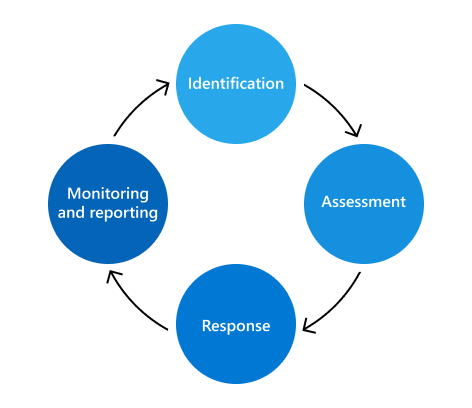
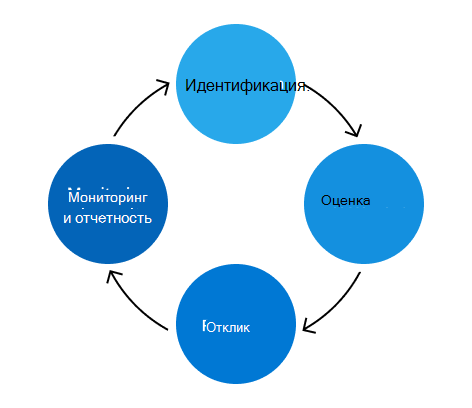
commit translated contents

diff --git a/compliance/regulatory/NIST-action-plan.md b/compliance/regulatory/NIST-action-plan.md
@@ -16,18 +16,18 @@ ms.collection:
 - MS-Compliance
 ms.custom: seo-marvel-apr2020
 hideEdit: true
-ms.openlocfilehash: da429e78cf0acec906a6067ff3df89d85ae2262a
-ms.sourcegitcommit: 024137a15ab23d26cac5ec14c36f3577fd8a0cc4
+ms.openlocfilehash: b0840cf87ede602c1bcc324de9a036126e4e1b2b
+ms.sourcegitcommit: fb379d1110a9a86c7f9bab8c484dc3f4b3dfd6f0
 ms.translationtype: HT
 ms.contentlocale: ru-RU
-ms.lasthandoff: 04/01/2021
-ms.locfileid: "51497279"
+ms.lasthandoff: 06/23/2021
+ms.locfileid: "53087568"
 ---
 # <a name="microsoft-365-nist-800-53-action-plan--top-priorities-for-your-first-30-days-90-days-and-beyond"></a>План обеспечения соответствия NIST 800-53 для Microsoft 365: основные приоритеты на первые 30, 90 и больше дней
 
-Microsoft 365 позволяет управлять предприятием с помощью облачной платформы управления, сопоставляющей средства контроля с рядом нормативных стандартов. Microsoft 365 включает Office 365, Windows 10 и Enterprise Mobility + Security. Внутренняя система управления от Майкрософт основана на специальной публикации 800-53 Национального института стандартов и технологий (NIST), а среда Office 365 аккредитована в соответствии со стандартом NIST 800-53 или более поздней его редакцией.
+Microsoft 365 позволяет управлять предприятием с помощью облачной платформы управления, сопоставляющей средства контроля с рядом нормативных стандартов. Microsoft 365 включает Office 365, Windows 10 и Enterprise Mobility + Security. Внутренняя система управления от Майкрософт основана на специальной публикации 800-53 Национального института стандартов и технологий (NIST), а среда Office 365 аккредитована в соответствии со стандартом NIST 800-53 или более поздней его редакцией.
 
-Корпорация Майкрософт — признанный лидер в области облачной безопасности. Используя многолетний опыт разработки корпоративного программного обеспечения и предоставления веб-служб, наша команда непрерывно совершенствуется и постоянно обновляет службы и приложения, обеспечивая безопасную и продуктивную работу в облачной службе, которая соответствует строгим отраслевым стандартам. Облачные службы Майкрософт для государственных организаций, включая Office 365 для государственных организаций США, соответствуют высоким требованиям Федеральной программы аккредитации облачных служб (FedRAMP) США и позволяют федеральным органам США сэкономить средства и использовать преимущества безопасности Microsoft Cloud.
+Корпорация Майкрософт — признанный лидер в области облачной безопасности. Используя многолетний опыт разработки корпоративного программного обеспечения и предоставления веб-служб, наша команда непрерывно совершенствуется и постоянно обновляет службы и приложения, обеспечивая безопасную и продуктивную работу в облачной службе, которая соответствует строгим отраслевым стандартам. Облачные службы Майкрософт для государственных организаций, включая Office 365 для государственных организаций США, соответствуют высоким требованиям Федеральной программы аккредитации облачных служб (FedRAMP) США и позволяют федеральным органам США сэкономить средства и использовать преимущества безопасности Microsoft Cloud.
 
 В этой статье приводится план действий в порядке приоритета, который поможет вам обеспечить соответствие требованиям NIST 800-53. Этот план действий был разработан совместно с Protiviti, партнером Майкрософт, специализирующимся на обеспечении соответствия требованиям нормативных документов. 
 
@@ -37,8 +37,8 @@ Microsoft 365 позволяет управлять предприятием с
 
 |**Этап**|**Результаты**|
 |:-----|:-----|
-|30 дней|*   Ознакомьтесь с требованиями NIST 800-53 и рассмотрите возможность обращения к партнеру Майкрософт по консультациям.<br>*   Изучите стратегию углубленной защиты, встроенную в Microsoft 365.  <br>*   Защитите доступ пользователей и администраторов к Office 365. <br>*   Обеспечьте возможность аудита всего доступа к системе согласно политикам аудита и учета в вашей организации.|
-|90 дней|*   Улучшите программу управления конфигурациями, защиту от вредоносных программ, внесение исправлений.<br>*   Используйте возможности обеспечения безопасности Microsoft 365 для управления доступом к среде, защиты информации и ресурсов организации.<br>*   Используйте встроенные возможности аудита для отслеживания рискованных или требующих особого внимания действий в Office 365.<br>*   Выполните развертывание Advanced Threat Protection для обработки ссылок и вложений в электронной почте и документах Office.|
+|30 дней|*   Ознакомьтесь с требованиями NIST 800-53 и рассмотрите возможность обращения к партнеру Майкрософт по консультациям.<br>*   Изучите стратегию углубленной защиты, встроенную в Microsoft 365.  <br>*   Защитите доступ пользователей и администраторов к Office 365. <br>*   Обеспечьте возможность аудита всего доступа к системе согласно политикам аудита и учета в вашей организации.|
+|90 дней|*   Улучшите программу управления конфигурациями, защиту от вредоносных программ, внесение исправлений.<br>*   Используйте возможности обеспечения безопасности Microsoft 365 для управления доступом к среде, защиты информации и ресурсов организации.<br>*   Используйте встроенные возможности аудита для отслеживания рискованных или требующих особого внимания действий в Office 365.<br>*   Выполните развертывание Microsoft Defender для Office 365 для обработки ссылок и вложений в электронной почте и документах Office.|
 |Более 90 дней|*   Используйте передовые инструменты Microsoft 365 и защиты информации для реализации средств непрерывного контроля для устройств и защиты корпоративных данных.<br>*   Постоянно контролируйте соответствие требованиям в Microsoft 365 и других облачных приложениях.  <br>*   Используйте возможности защиты и улучшенного выявления угроз в Advanced Threat Analytics для обеспечения надежной и многоуровневой стратегии безопасности в организации. Разработайте план реагирования на инциденты для смягчения последствий компрометации систем в организации.|
 
 ## <a name="30-days--powerful-quick-wins"></a>30 дней: быстрые и эффективные решения
@@ -48,9 +48,9 @@ Microsoft 365 позволяет управлять предприятием с
 |**Область**|**Задачи**|
 |:-----|:-----|
 |Ознакомьтесь с требованиями NIST 800-53 и рассмотрите возможность обращения к партнеру Майкрософт по консультациям.|•    В сотрудничестве с партнером корпорации Майкрософт выполните анализ несоответствий требованиям NIST 800-53 в вашей организации и составьте план исправления недочетов. <br>•   С помощью инструкций в статье [Диспетчер соответствия требованиям (Майкрософт)](/microsoft-365/compliance/compliance-manager) определите и задокументируйте политики и процедуры для контроля доступа и предоставления информации, в которых будут рассмотрены цели, область применения, роли, обязанности, координирование работы организационных подразделений и соответствие требованиям.|
-|Изучите стратегию эшелонной обороны, встроенную в Microsoft 365.|•   Оценивайте и контролируйте риски, связанные с соответствием требованиям, при помощи [диспетчера соответствия требованиям](/microsoft-365/compliance/compliance-manager) для оценки соблюдения NIST 800-53 в организации. Используйте средства контроля Центра безопасности Microsoft 365 для снижения рисков и управления ими, учитывая результаты оценки. <br>• Используйте службу [Оценка безопасности (Майкрософт)](/microsoft-365/security/mtp/microsoft-secure-score) для отслеживания использования в организации возможностей обеспечения безопасности Microsoft 365 с течением времени как в Office 365, так и на компьютерах с Windows 10. <br>•   Узнайте о технологиях и стратегиях Майкрософт, используемых для [шифрования данных Office 365](/microsoft-365/compliance/encryption), а также о стратегиях [защиты от атак типа "отказ в обслуживании"](/office365/enterprise/office-365-defending-against-denial-of-service-attacks-overview) в Microsoft Cloud.|
-|Защитите доступ пользователей и администраторов к Office 365.|• Внедрите [надежное управление учетными данными](/azure/security/azure-ad-secure-steps#step-1---strengthen-your-credentials) для защиты учетных записей пользователей. <br> •    Ознакомьтесь с [рекомендуемыми политиками доступа в отношении устройств и удостоверений](/microsoft-365/security/office-365-security/microsoft-365-policies-configurations) для служб Office 365.<br> • Используйте [административные роли Office 365](https://support.office.com/article/understanding-administrative-roles-52f29955-6a60-435f-aba9-eb69c898606a) для внедрения доступа к средствам администрирования на основе ролей и для разделения административных обязанностей. Примечание: многим административным ролям в Office 365 соответствуют определенные роли в Exchange Online, SharePoint Online и Skype для бизнеса Online. Разделяйте разрешения, чтобы у отдельно взятого администратора не было большего доступа, чем необходимо.|
-|Обеспечьте возможность аудита всего доступа к системе согласно политикам аудита и учета в вашей организации.|• Включите [ведение журнала аудита](/microsoft-365/compliance/search-the-audit-log-in-security-and-compliance) и [аудит почтовых ящиков](/microsoft-365/compliance/enable-mailbox-auditing) для всех почтовых ящиков Exchange, чтобы выявлять в Office 365 потенциально опасные действия и обеспечить возможность криминалистического анализа в случае нарушения безопасности данных.|
+|Изучите стратегию эшелонной обороны, встроенную в Microsoft 365.|•   Оценивайте и контролируйте риски нарушения нормативных требований, используя [диспетчер соответствия требованиям](/microsoft-365/compliance/compliance-manager) для проведения оценки соответствия организации NIST 800-53. Согласуйте средства контроля Центра безопасности Microsoft 365 для управления рисками и их устранения с результатами оценки. <br>• Используйте [Оценку безопасности (Майкрософт)](/microsoft-365/security/mtp/microsoft-secure-score) для отслеживания использования возможностей Центра безопасности Microsoft 365 в организации с течением времени, как в Office 365, так и на компьютерах с Windows 10. <br>•   Узнайте о технологиях и стратегиях Майкрософт, используемых для [шифрования данных Office 365](/microsoft-365/compliance/encryption), а также о стратегиях [защиты от атак типа "отказ в обслуживании"](/compliance/assurance/assurance-microsoft-dos-defense-strategy) в Microsoft Cloud.|
+|Защитите доступ пользователей и администраторов к Office 365.|• Внедрите [надежное управление учетными данными](/azure/security/azure-ad-secure-steps#step-1---strengthen-your-credentials) для защиты учетных записей пользователей. <br> •    Ознакомьтесь с [рекомендуемыми политиками доступа в отношении устройств и удостоверений](/microsoft-365/security/office-365-security/microsoft-365-policies-configurations) для служб Office 365.<br> • Используйте [административные роли Microsoft 365](/microsoft-365/admin/add-users/about-admin-roles), чтобы реализовать доступ к возможностям администрирования на основе ролей и разделить административные обязанности. Примечание. Многим административным ролям в Microsoft 365 соответствует роль в Exchange Online, SharePoint Online и Skype для бизнеса Online. Разделяйте разрешения, чтобы каждый администратор имел только необходимый доступ.|
+|Обеспечьте возможность аудита всего доступа к системе в соответствии с политиками аудита и учета в вашей организации.|• Включите [ведение журнала аудита](/microsoft-365/compliance/search-the-audit-log-in-security-and-compliance) и [аудит почтовых ящиков](/microsoft-365/compliance/enable-mailbox-auditing) для всех почтовых ящиков Exchange, чтобы выявлять в Office 365 потенциально опасные действия и обеспечить возможность криминалистического анализа в случае нарушения безопасности данных.|
 |||
 
 ## <a name="90-days--enhanced-protections"></a>90 дней: расширенные средства защиты
@@ -60,9 +60,9 @@ Microsoft 365 позволяет управлять предприятием с
 |**Область**|**Задачи**|
 |:-----|:-----|
 |Улучшите программу управления конфигурациями, защиту от вредоносных программ, внесение исправлений.|•   Защитите корпоративные ресурсы и компьютеры, развернув и включив [антивирусную программу "Защитник Windows"](/windows/security/threat-protection/windows-defender-antivirus/deploy-windows-defender-antivirus) в организации и используя ее тесную интеграцию с Windows 10.<br>• Следите за зараженными системами, помещенными на карантин, чтобы до применения исправлений не был нанесен дополнительный ущерб.<br>•   Смело положитесь на процесс Microsoft 365 для управления изменениями в отношении надежных обновлений и исправлений, который соответствует строгому стандарту.|
-|Используйте возможности обеспечения безопасности Microsoft 365 для управления доступом к среде, защиты информации и ресурсов организации.|•   Внедрите [рекомендуемые политики доступа в отношении удостоверений и устройств](/microsoft-365/security/office-365-security/microsoft-365-policies-configurations) для защиты учетных записей пользователей и администраторов. <br>•   Внедрите [шифрование сообщений Office 365 (OME)](/microsoft-365/compliance/ome), чтобы помочь пользователям соблюдать политики организации при отправке конфиденциальных данных по электронной почте.<br>•  Разверните [Microsoft Defender для конечной точки](/windows/security/threat-protection/windows-defender-atp/windows-defender-advanced-threat-protection) на всех настольных компьютерах для защиты от вредоносного кода, для предотвращения нарушений безопасности данных и для реагирования на такие нарушения.<br>•  Настраивайте, тестируйте и развертывайте политики, чтобы выявлять, отслеживать и [автоматически защищать](/microsoft-365/compliance/apply-protection-to-personal-data-in-office-365) конфиденциальные данные более чем 80 распространенных типов в документах и электронных письмах, в том числе финансовые, медицинские и личные сведения.<br>•    Автоматически информируйте отправителей сообщений о том, что они могут нарушить одну из ваших политик. Это возможно до того, как они отправят сообщение с нарушениями, если настроена функция [Подсказки политики](/exchange/security-and-compliance/data-loss-prevention/policy-tips). Ее можно настроить так, чтобы отображалось краткое уведомление в Outlook, Outlook в Интернете и OWA для устройств о возможных нарушениях политики во время создания сообщения.<br>•   Защитите конфиденциальные корпоративные данные и соблюдайте политики предоставления информации в вашей организации, внедрив средства контроля для [внешнего общего доступа в SharePoint Online и OneDrive для бизнеса](/onedrive/manage-sharing). Убедитесь, что доступ к корпоративным данным предоставляется только внешним пользователям, прошедшим проверку подлинности.|
-|Используйте встроенные возможности аудита для отслеживания рискованных или требующих особого внимания действий в Office 365.|•   Включите [политики оповещения](/microsoft-365/compliance/alert-policies) в Центре безопасности и соответствия требованиям Microsoft 365 для автоматической отправки уведомлений при выполнении действий, требующих особого внимания (например, при повышении привилегий учетной записи пользователя или попытке доступа к конфиденциальным данным). Необходимо выполнять аудит и мониторинг всех функций, для которых требуются определенные привилегии.<br>• Регулярно [просматривайте журналы аудита](/microsoft-365/compliance/search-the-audit-log-in-security-and-compliance) в Центре безопасности или соответствия требованиям для обнаружения изменений, внесенных в параметры конфигурации клиента.<br>•   Для долгосрочного хранения данных журналов аудита используйте справочник по API действий управления Office 365, чтобы обеспечить интеграцию со средством управления информационной безопасностью и событиями безопасности (SIEM).|
-|Выполните развертывание Advanced Threat Protection для обработки ссылок и вложений в электронной почте и документах Office.|• Реализуйте службу [Office 365 Advanced Threat Protection](/security/office-365-security/office-365-atp), чтобы защититься от наиболее распространенных векторов атаки, в том числе фишинговых писем и документов Office, содержащих вредоносные ссылки и вложения.|
+|Используйте возможности обеспечения безопасности Microsoft 365 для управления доступом к среде, защиты информации и ресурсов организации.|•   Внедрите [рекомендуемые политики доступа в отношении удостоверений и устройств](/microsoft-365/security/office-365-security/microsoft-365-policies-configurations) для защиты учетных записей пользователей и администраторов. <br>•   Внедрите [шифрование сообщений Office 365 (OME)](/microsoft-365/compliance/ome), чтобы помочь пользователям соблюдать политики организации при отправке конфиденциальных данных по электронной почте.<br>•  Разверните [Microsoft Defender для конечной точки](/microsoft-365/security/defender-endpoint/microsoft-defender-endpoint) на всех настольных компьютерах для защиты от вредоносного кода, предотвращения нарушений безопасности данных и реагирования на такие нарушения.<br>• Настраивайте, тестируйте и развертывайте политики, чтобы выявлять, отслеживать и [автоматически защищать](/microsoft-365/compliance/apply-protection-to-personal-data-in-office-365) конфиденциальные данные более чем 80 распространенных типов в документах и электронных письмах, в том числе финансовые, медицинские и личные сведения.<br>•    Автоматически информируйте отправителей сообщений о том, что они могут нарушить одну из ваших политик. Это возможно до того, как они отправят сообщение с нарушениями, если настроена функция [Подсказки политики](/exchange/security-and-compliance/data-loss-prevention/policy-tips). Ее можно настроить так, чтобы отображалось краткое уведомление в Outlook, Outlook в Интернете и OWA для устройств о возможных нарушениях политики во время создания сообщения.<br>•   Защитите конфиденциальные корпоративные данные и соблюдайте политики общего доступа к информации в вашей организации, внедрив средства контроля для [внешнего общего доступа в SharePoint Online и OneDrive для бизнеса](/onedrive/manage-sharing). Убедитесь, что доступ к корпоративным данным предоставляется только внешним пользователям, прошедшим проверку подлинности.|
+|Используйте встроенные возможности аудита для отслеживания рискованных или требующих особого внимания действий в Office 365.|•   Включите [политики оповещения](/microsoft-365/compliance/alert-policies) в Центре безопасности и соответствия требованиям Microsoft 365 для автоматической отправки уведомлений при выполнении действий, требующих особого внимания (например, при повышении привилегий учетной записи пользователя или попытке доступа к конфиденциальным данным). Необходимо выполнять аудит и мониторинг всех функций, для которых требуются определенные привилегии.<br>• Регулярно [просматривайте журналы аудита](/microsoft-365/compliance/search-the-audit-log-in-security-and-compliance) в Центре безопасности или соответствия требованиям для обнаружения изменений, внесенных в параметры конфигурации клиента.<br>•   Для долгосрочного хранения данных журналов аудита используйте справочник по API действий управления Office 365, чтобы обеспечить интеграцию со средством управления информационной безопасностью и событиями безопасности (SIEM).|
+|Выполните развертывание Microsoft Defender для Office 365 для обработки ссылок и вложений в электронной почте и документах Office.|Внедрите службу [Microsoft Defender для Office 365](/microsoft-365/security/office-365-security/defender-for-office-365) для защиты от наиболее распространенных векторов атаки, в том числе фишинговых писем и документов Office, содержащих вредоносные ссылки и вложения.|
 |||
 
 ## <a name="beyond-90-days-ongoing-security-data-governance-and-reporting"></a>Более 90 дней: непрерывная защита, управление данными и создание отчетов
@@ -72,8 +72,8 @@ Microsoft 365 позволяет управлять предприятием с
 |**Область**|**Задачи**|
 |:-----|:-----|
 |Используйте передовые инструменты Microsoft 365 и защиты информации для реализации средств непрерывного контроля для устройств и защиты корпоративных данных.|*    С помощью [Microsoft Intune](/intune/) защитите конфиденциальные данные, которые хранятся и доступны на мобильных устройствах, и разрешайте доступ к облачным службам только корпоративным устройствам, соответствующим требованиям.|
-|Постоянно контролируйте соответствие требованиям в Microsoft 365 и других облачных приложениях.|*    Чтобы оценивать эффективность заданных политик и процедур организации, используйте [диспетчера соответствия требованиям](/microsoft-365/compliance/compliance-manager) для регулярных оценок принудительного применения политик информационной безопасности в организации.<br>*    Используйте [Azure AD Privileged Identity Management](/azure/active-directory/privileged-identity-management/pim-configure) для контроля и выполнения регулярных проверок всех пользователей и групп с высокими уровнями разрешений (т. е. привилегированных или административных пользователей).<br>*    Разверните и настройте [Privileged Access Management](/microsoft-365/compliance/privileged-access-management-overview), чтобы обеспечить детализированное управление доступом для привилегированных задач администратора в Office 365.  После включения пользователям нужно будет запрашивать JIT-доступ, чтобы выполнять привилегированные задачи и задачи, требующие высокого уровня доступа, через рабочий процесс утверждения, который имеет жесткие ограничения и временные рамки.<br>*    Проводите аудит попыток [доступа к почтовым ящикам со стороны пользователей, которые не являются их владельцами](/Exchange/policy-and-compliance/non-owner-mailbox-access-reports), чтобы выявить потенциальные утечки информации и заблаговременно проверять случаи такого доступа для всех почтовых ящиков Exchange Online.<br>*    Используйте [политики оповещения Office 365, отчеты для защиты от потери данных и Microsoft Cloud App Security](/Office365/SecurityCompliance/monitor-for-leaks-of-personal-data), чтобы отслеживать использование облачных приложений в организации и реализовать расширенные политики оповещения, основанные на эвристическом анализе и действиях пользователей.<br>*    Используйте [Microsoft Cloud App Security](/cloud-app-security/what-is-cloud-app-security), чтобы автоматически отслеживать рискованные действия, выявлять возможных злоумышленников среди администраторов, расследовать случаи нарушения безопасности данных или проверять соответствие требованиям.|
-|Используйте возможности защиты и улучшенного выявления угроз в Advanced Threat Analytics для обеспечения надежной и многоуровневой стратегии безопасности в организации. Разработайте план реагирования на инциденты для смягчения последствий компрометации систем в организации.|*    Разверните и настройте [Windows Advanced Threat Analytics](/advanced-threat-analytics/), чтобы использовать богатые возможности аналитики и создания отчетов. Они позволят получать важные сведения о том, на каких пользователей нацелены атаки в вашей организации и какие методики кибератак при этом используются.<br>*    Используйте [отчеты и аналитику Office 365 Advanced Threat Protection](/security/office-365-security/view-reports-for-atp.md) для анализа угроз, получая аналитические сведения об автоматически обнаруженных вредоносных письмах и вредоносном содержимом в организации. Используйте встроенные возможности отчетности и трассировки сообщений для исследования писем, заблокированных из-за неизвестного вируса или вредоносной программы.<br>*    Используйте [Office 365 Threat Intelligence](/security/office-365-security/office-365-ti.md) для объединения аналитических сведений и информации из разных источников и получения цельного представления об общей безопасности облака.<br>*    [Интегрируйте Office 365 Threat Intelligence и Microsoft Defender для конечной точки](/security/office-365-security/integrate-office-365-ti-with-wdatp.md), чтобы быстро увидеть риск для устройств пользователей при изучении угроз в Office 365.<br>*    Имитируйте распространенные методы атак в среде Office 365 с помощью [эмулятора атак Office 365](/security/office-365-security/attack-simulator.md).  Изучайте результаты имитации, чтобы определить возможности для обучения пользователей и проверить предусмотренные в организации процедуры реагирования на инциденты.<br>*    Настройте [разрешения в Центре безопасности и соответствия требованиям](/security/office-365-security/permissions-in-the-security-and-compliance-center.md), чтобы только утвержденные пользователи могли получать доступ к данным мониторинга и аудита, а также чтобы соотнести такой доступ с мерами по реагированию на инциденты в организации.|
+|Постоянно контролируйте соответствие требованиям в Microsoft 365 и других облачных приложениях.|*    Чтобы оценивать эффективность заданных политик и процедур организации, используйте [диспетчера соответствия требованиям](/microsoft-365/compliance/compliance-manager) для регулярных оценок принудительного применения политик информационной безопасности в организации.<br>*    Используйте [Azure AD Privileged Identity Management](/azure/active-directory/privileged-identity-management/pim-configure) для контроля и выполнения регулярных проверок всех пользователей и групп с высокими уровнями разрешений (т. е. привилегированных или административных пользователей).<br>*    Разверните и настройте [Privileged Access Management](/microsoft-365/compliance/privileged-access-management-overview), чтобы обеспечить детализированное управление доступом для привилегированных задач администратора в Office 365.  После включения пользователям нужно будет запрашивать JIT-доступ, чтобы выполнять привилегированные задачи и задачи, требующие высокого уровня доступа, через рабочий процесс утверждения, который имеет жесткие ограничения и временные рамки.<br>*    Проводите аудит попыток [доступа к почтовым ящикам со стороны пользователей, которые не являются их владельцами](/Exchange/policy-and-compliance/non-owner-mailbox-access-reports), чтобы выявить потенциальные утечки информации и заблаговременно проверять случаи такого доступа для всех почтовых ящиков Exchange Online.<br>*    Используйте [политики оповещения Office 365, отчеты для защиты от потери данных и Microsoft Cloud App Security](/Office365/SecurityCompliance/monitor-for-leaks-of-personal-data), чтобы отслеживать использование облачных приложений в организации и реализовать расширенные политики оповещения, основанные на эвристическом анализе и действиях пользователей.<br>*    Используйте [Microsoft Cloud App Security](/cloud-app-security/what-is-cloud-app-security), чтобы автоматически отслеживать рискованные действия, выявлять возможных злоумышленников среди администраторов, расследовать случаи нарушения безопасности данных или проверять соответствие требованиям.|
+|Используйте возможности защиты и улучшенного выявления угроз в Advanced Threat Analytics для обеспечения надежной и многоуровневой стратегии безопасности в организации. Разработайте план реагирования на инциденты для смягчения последствий компрометации систем в организации.|*    Разверните и настройте [Windows Advanced Threat Analytics](/advanced-threat-analytics/), чтобы использовать богатые возможности аналитики и создания отчетов. Они позволят получать важные сведения о том, на каких пользователей нацелены атаки в вашей организации и какие методики кибератак при этом используются.<br>*    Используйте [отчеты Defender для Office 365](/microsoft-365/security/office-365-security/view-reports-for-mdo) для анализа угроз на основе подробных сведений о вредоносном содержимом и вредоносных сообщениях, автоматически обнаруженных в организации.  Используйте встроенные возможности отчетности и трассировки сообщений для исследования писем, заблокированных из-за неизвестного вируса или вредоносной программы.<br>*    Используйте [возможности исследования угроз и реагирования на них в Office 365](/microsoft-365/security/office-365-security/office-365-ti) для объединения аналитических сведений и информации из различных источников и получения цельного представления об общей безопасности облака.<br>*    [Интегрируйте Microsoft Defender для Office 365 и Microsoft Defender для конечной точки](/microsoft-365/security/office-365-security/integrate-office-365-ti-with-mde), чтобы быстро определить наличие риска для устройств пользователей при изучении угроз в Office 365.<br>*    Имитируйте распространенные методы атак в среде Office 365 с помощью [эмулятора атак Office 365](/microsoft-365/security/office-365-security/attack-simulator). Изучайте результаты имитации, чтобы определить возможности для обучения пользователей и проверить предусмотренные в организации процедуры реагирования на инциденты.<br>*    Настройте [разрешения в Центре безопасности и соответствия требованиям](/microsoft-365/security/office-365-security/permissions-in-the-security-and-compliance-center), чтобы только утвержденные пользователи могли получать доступ к данным мониторинга и аудита, а также чтобы соотнести такой доступ с мерами по реагированию на инциденты в организации.|
 |||
 
 ## <a name="learn-more"></a>Дополнительные сведения
